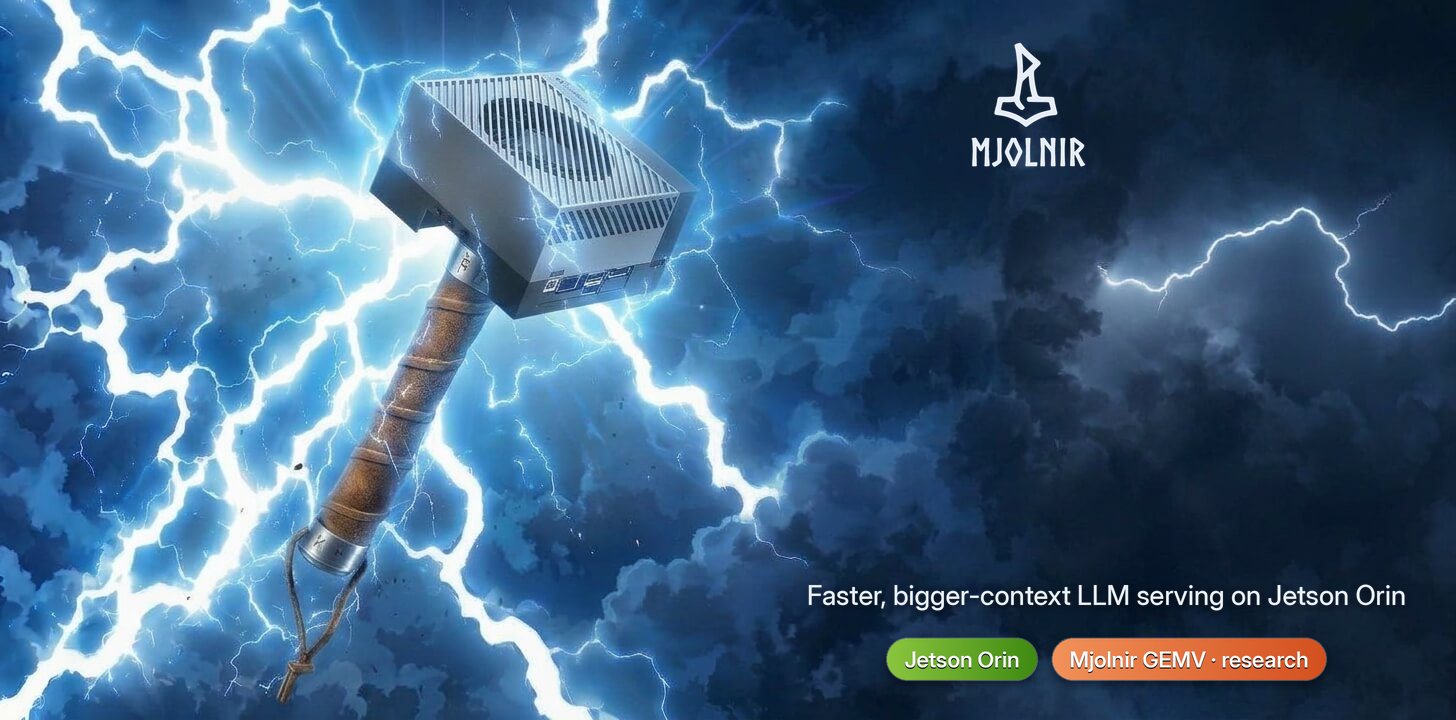
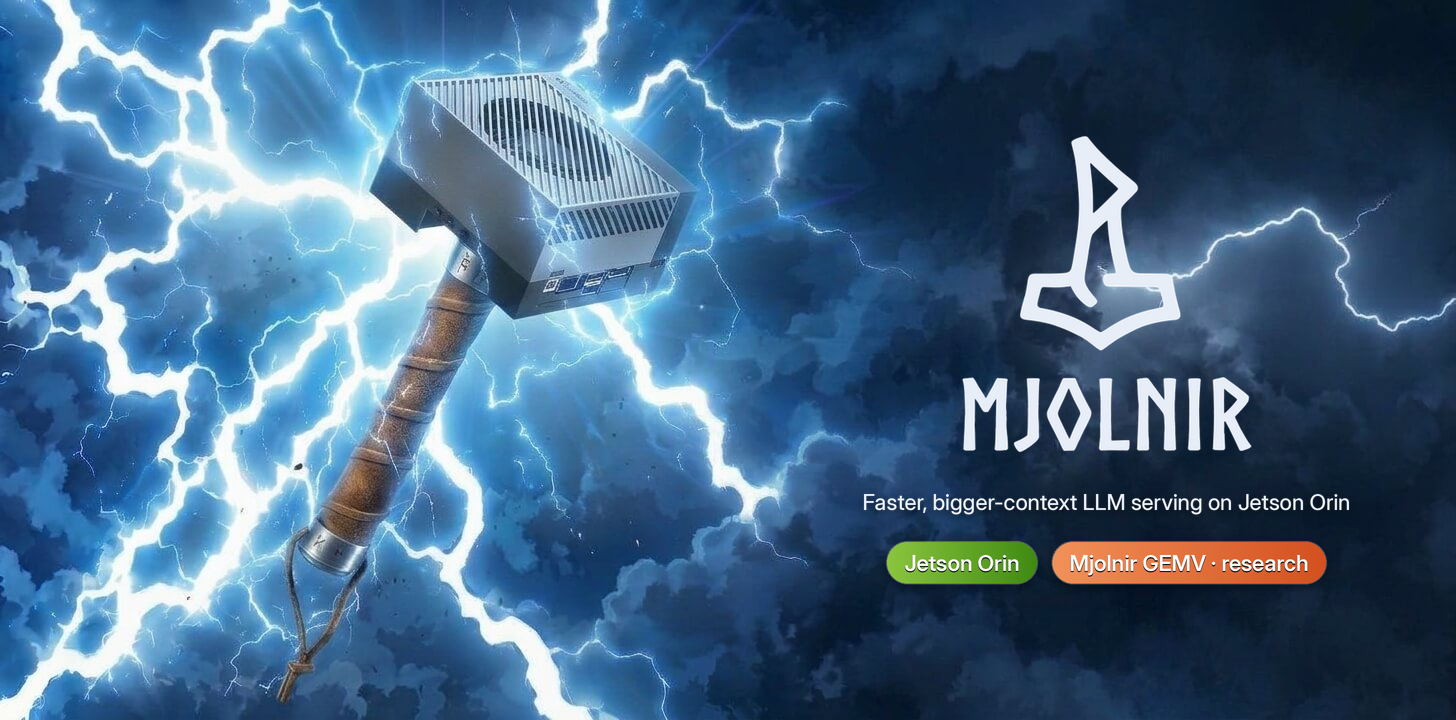
hero: honest 2x logotype sizing (the S-scaled canvas was halving it), the stack centred on Y, generous slogan/pill padding

diff --git a/src/mjolnir-cli/mjolnir_cli/charts_e2e.py b/src/mjolnir-cli/mjolnir_cli/charts_e2e.py
@@ -228,7 +228,10 @@ def _white_logo(layout: RepoLayout):
 
     arr = np.array(logo)
     arr[..., :3] = np.where(arr[..., 3:] > 0, np.array([232, 238, 248]), arr[..., :3])
-    return Image.fromarray(arr, "RGBA")
+    logo = Image.fromarray(arr, "RGBA")
+    # trim the transparent margins: the caller's height fraction applies to
+    # the visible mark, not the canvas it ships on
+    return logo.crop(logo.getchannel("A").getbbox())
 
 
 def render_hero(layout: RepoLayout, platform: str | None = None) -> Path | None:
@@ -262,50 +265,58 @@ def render_hero(layout: RepoLayout, platform: str | None = None) -> Path | None:
     shadow = Image.new("RGBA", (W * S, H * S), (0, 0, 0, 0))
     d, ds = ImageDraw.Draw(over), ImageDraw.Draw(shadow)
 
-    # the white logotype, centred on the right half: big, near the top
-    logo_h = round(H * 0.44)
-    logo_w = round(logo_img.size[0] * logo_h / logo_img.size[1])
-    if logo_w > 0.40 * W:  # a wide wordmark variant: cap by width instead
-        logo_w = round(0.40 * W)
-        logo_h = round(logo_w * logo_img.size[1] / logo_img.size[0])
-    logo = logo_img.resize((logo_w, logo_h), Image.Resampling.LANCZOS)
-    ly = round(H * 0.04)
-    over.alpha_composite(logo, (round(cx * S - logo_w * S / 2), ly * S))
+    # ── vertical layout (all S-scaled px): the logo → slogan → pills stack
+    # centred as a group on the image's Y axis, never closer to the top edge
+    # than twice the old top padding ────────────────────────────────────────
+    logo_hS = round(H * 0.44) * S
+    logo_wS = round(logo_img.size[0] * logo_hS / logo_img.size[1])
+    if logo_wS > 0.40 * W * S:  # a wide wordmark variant: cap by width instead
+        logo_wS = round(0.40 * W * S)
+        logo_hS = round(logo_wS * logo_img.size[1] / logo_img.size[0])
+    pill_hS = round(H * 0.060) * S
+    gap_logo_slogan = round(H * 0.05) * S
+    gap_slogan_pills = round(H * 0.030) * S
 
-    # slogan: centred line(s), shrunk to stay inside the dark right half
-    # (the art fills the left ~55%), stacked upward to end just above the pills
+    # ── slogan: centred line(s), shrunk to stay inside the padded span
+    # (2× the old padding from the image centre line and the right edge) ────
     slogan = ROOT_HERO_SLOGAN if platform is None else (PLATFORM_HERO_SLOGAN[platform],)
-    max_w = 0.42 * W * S
+    max_wS = 0.34 * W * S
     size = round(H * 0.040)
     slogan_font = ImageFont.truetype(_font_file(fam, "medium"), size * S)
-    while size > round(H * 0.024) and max(d.textlength(ln, font=slogan_font) for ln in slogan) > max_w:
+    while size > round(H * 0.024) and max(d.textlength(ln, font=slogan_font) for ln in slogan) > max_wS:
         size -= 1
         slogan_font = ImageFont.truetype(_font_file(fam, "medium"), size * S)
-    line_h = slogan_font.size * 1.38
-    # the pill row anchors the bottom; the slogan block sits right above it
-    pill_h = round(H * 0.060) * S
-    pills_y = round((H - 0.055 * H) * S) - pill_h
-    y = pills_y - round(H * 0.030 * S) - round(line_h * len(slogan))
+    line_hS = round(slogan_font.size * 1.38)
+
+    stack_hS = logo_hS + gap_logo_slogan + line_hS * len(slogan) + gap_slogan_pills + pill_hS
+    topS = max(round(H * 0.08) * S, (H * S - stack_hS) // 2)
+
+    # the white logotype, centred on the stack axis
+    logo = logo_img.resize((logo_wS, logo_hS), Image.Resampling.LANCZOS)
+    over.alpha_composite(logo, (round(cx * S - logo_wS / 2), topS))
+
+    # slogan lines under the logotype
+    y = topS + logo_hS + gap_logo_slogan
     for line in slogan:
         w = d.textlength(line, font=slogan_font)
         x = cx * S - w / 2
         ds.text((x, y + 2 * S), line, font=slogan_font, fill=(0, 0, 0, 170))
         d.text((x, y), line, font=slogan_font, fill=(232, 238, 248, 255))
-        y += line_h
+        y += line_hS
 
-    # pills: one centred row, shrunk if it would run past the dark half
+    # pills: one centred row, shrunk if it would run past the padded span
     pills = ROOT_HERO_PILLS if platform is None else PLATFORM_HERO_PILLS[platform]
     labels = [(t.format(vllm=VLLM_VERSION), c0, c1) for t, c0, c1 in pills]
-    pad_x, pill_h, gap = 18 * S, pill_h, 14 * S
+    pad_x, pill_h, gap = 18 * S, pill_hS, 14 * S
     size = round(H * 0.030)
     pill_font = ImageFont.truetype(_font_file(fam, "semibold"), size * S)
     row_w = lambda fs: sum(d.textlength(t, font=fs) + 2 * pad_x for t, _, _ in labels) + gap * (len(labels) - 1)  # noqa: E731
-    while size > round(H * 0.020) and row_w(pill_font) > max_w:
+    while size > round(H * 0.020) and row_w(pill_font) > max_wS:
         size -= 1
         pill_font = ImageFont.truetype(_font_file(fam, "semibold"), size * S)
     widths = [d.textlength(t, font=pill_font) + 2 * pad_x for t, _, _ in labels]
     x = cx * S - (sum(widths) + gap * (len(widths) - 1)) / 2
-    y = pills_y
+    y = topS + logo_hS + gap_logo_slogan + line_hS * len(slogan) + gap_slogan_pills
     for (text, c0, c1), w in zip(labels, widths, strict=True):
         box = (int(x), y, int(x + w), y + pill_h)
         ds.rounded_rectangle((box[0], box[1] + 3 * S, box[2], box[3] + 3 * S), radius=pill_h // 2, fill=(0, 0, 0, 120))
